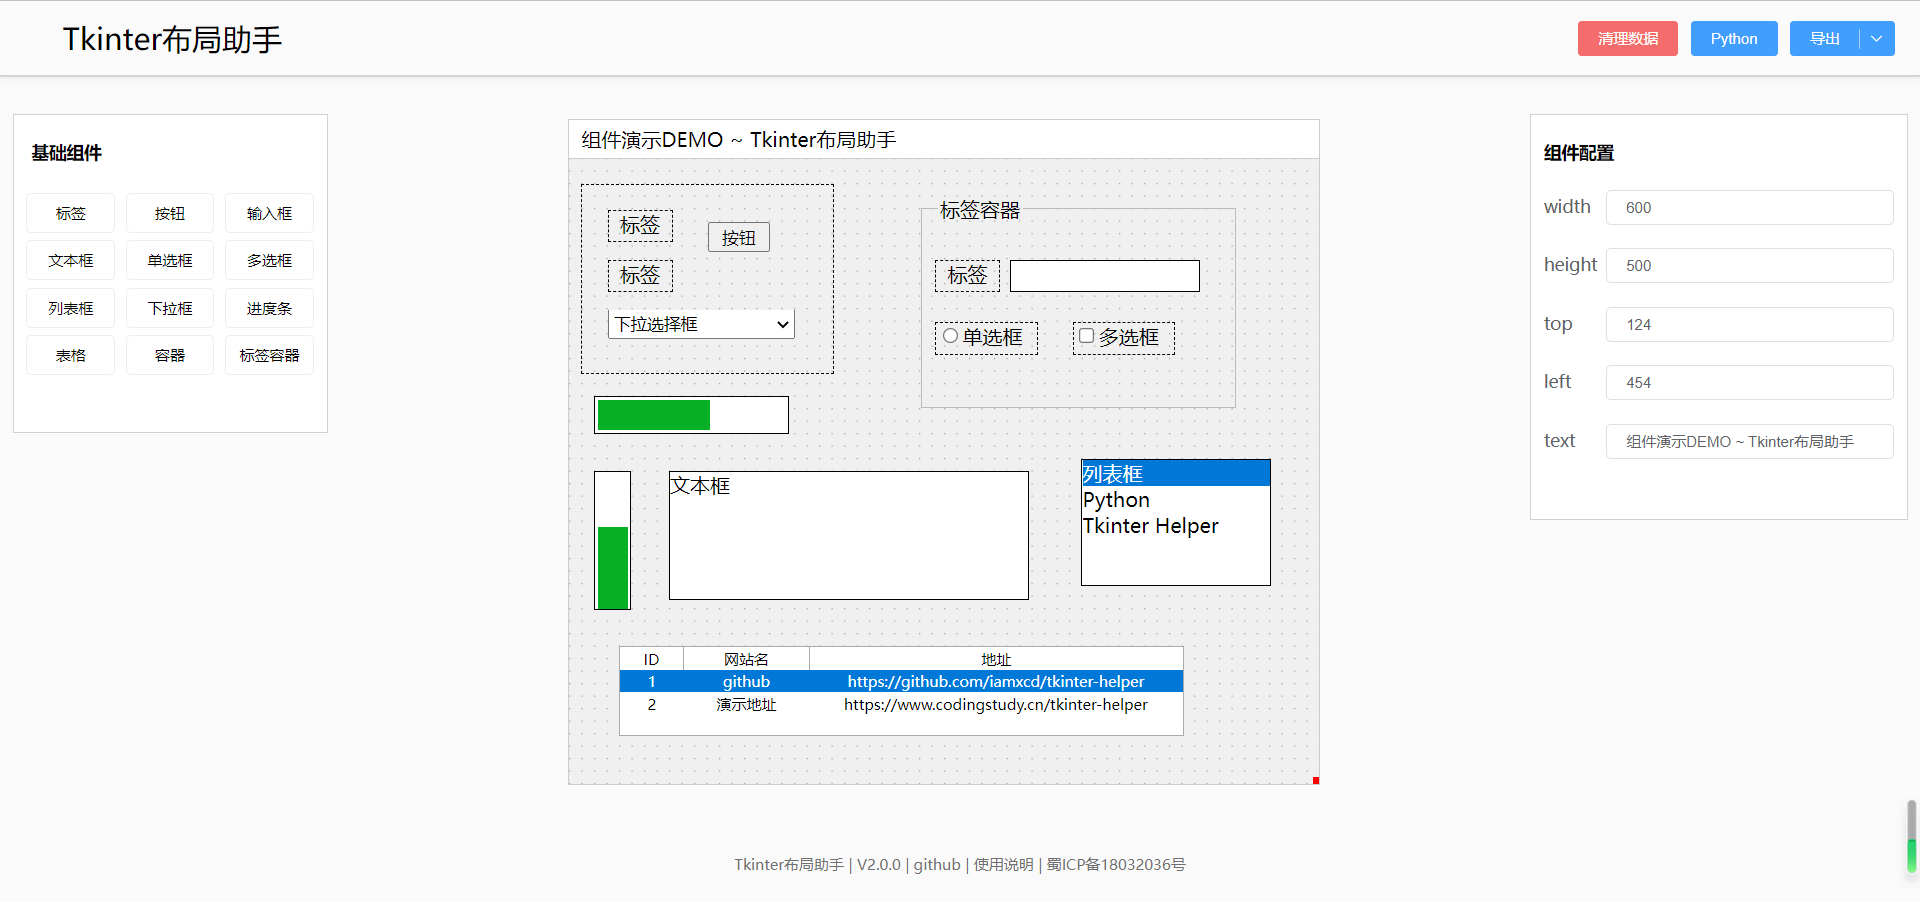
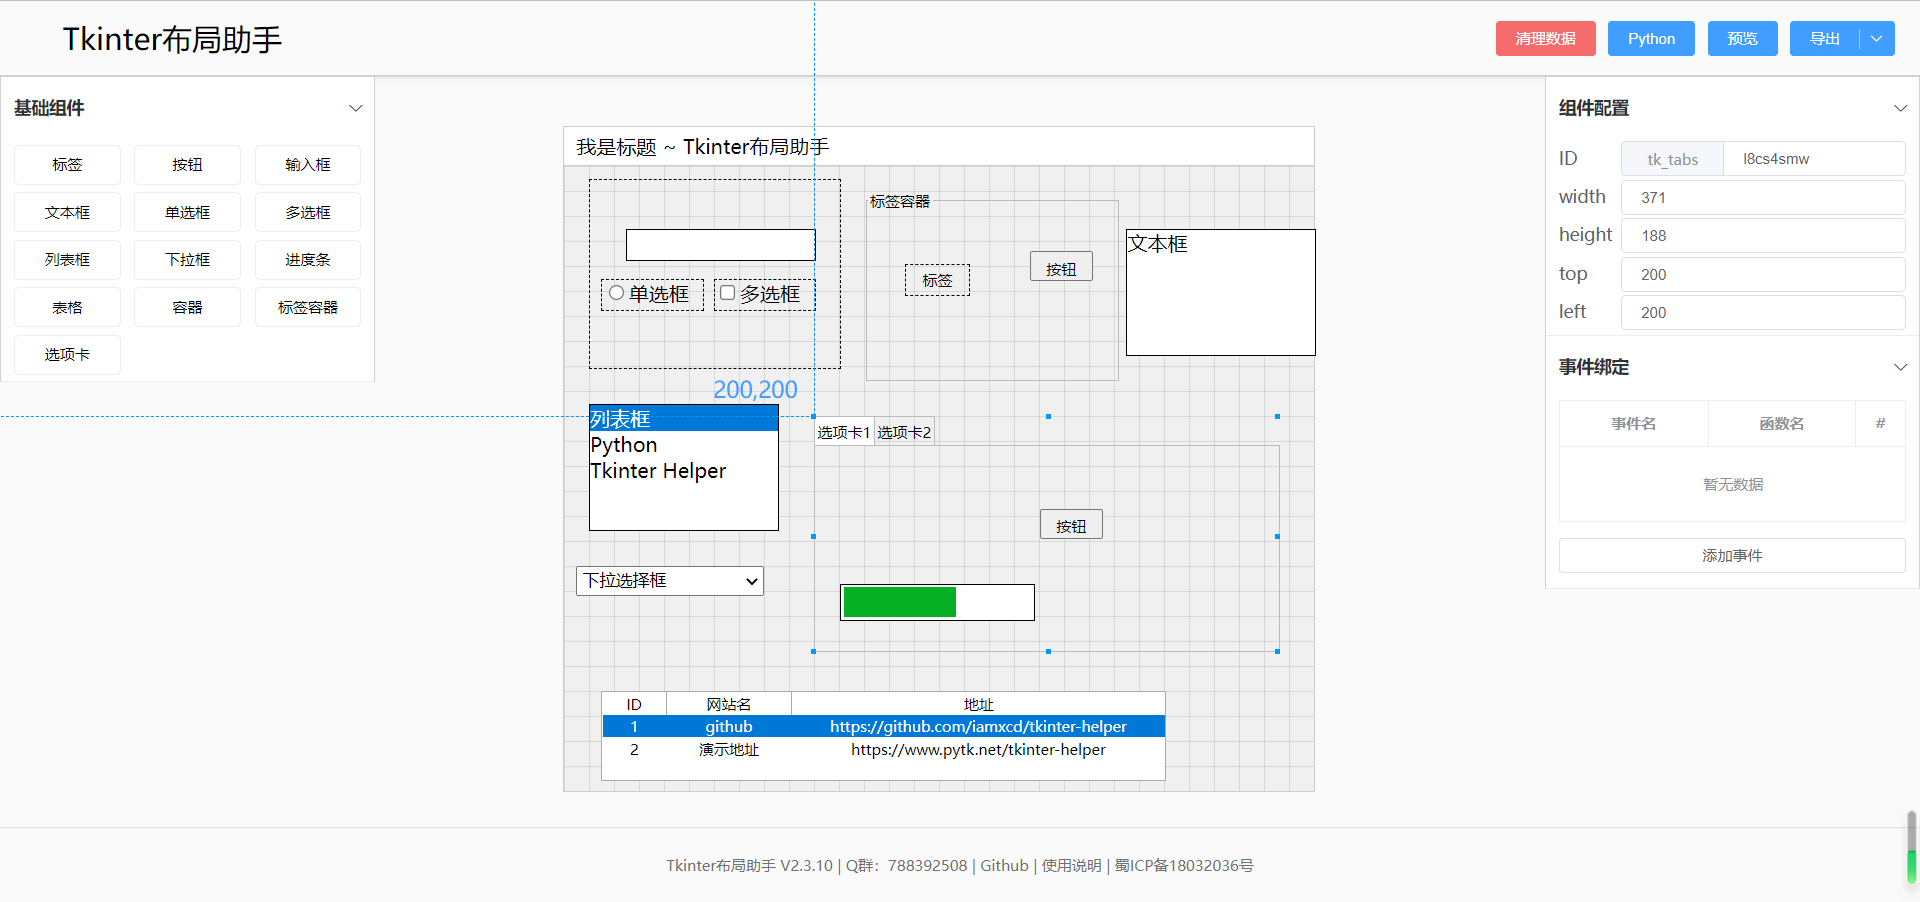
优化

diff --git a/src/components/tk_widget/tk_label_frame.vue b/src/components/tk_widget/tk_label_frame.vue
@@ -2,7 +2,10 @@
   <fieldset :style="style"
     class="tk_label_frame">
     <legend class="title">{{info.text}}</legend>
-    <slot></slot>
+    <div class="content"
+      :id="id">
+      <slot></slot>
+    </div>
   </fieldset>
 
 </template>
@@ -12,6 +15,9 @@ export default {
   props: {
     info: {
       type: Object,
+    },
+    id: {
+      type: String,
     },
   },
   computed: {
@@ -32,6 +38,13 @@ export default {
   .title {
     font-size: 12px;
     font-weight: 500;
+  }
+
+  .content {
+    margin-top: 2px;
+    width: 100%;
+    height: 100%;
+    position: absolute;
   }
 }
 </style>

diff --git a/src/components/tk_widget/tk_button.vue b/src/components/tk_widget/tk_button.vue
@@ -1,6 +1,8 @@
 <template>
-  <button>
-    {{info.text}}
+  <button class="tk_button">
+    <div :style="{'line-height':info.height+'px'}">
+      {{info.text}}
+    </div>
   </button>
 </template>
 
@@ -14,5 +16,12 @@ export default {
 };
 </script>
 
-<style>
+<style lang="scss" scoped>
+.tk_button {
+  text-align: center;
+  font-size: 12px;
+
+  white-space: nowrap;
+  overflow: hidden;
+}
 </style>

diff --git a/src/components/event-bind.vue b/src/components/event-bind.vue
@@ -152,7 +152,7 @@ export default {
     },
     getVirtuaEvents() {
       let type = this.attrsForm.type;
-      if (type == "tk_win") {
+      if (!type || type == "tk_win") {
         return [];
       }
 

diff --git a/src/config.js b/src/config.js
@@ -5,6 +5,6 @@ export const preview = {
 
 export default {
     name: 'Tkinter布局助手',
-    version: '2.3.9',
+    version: '2.3.10',
     qq_group: '788392508'
 }

diff --git a/files/demo.py b/files/demo.py
@@ -2,146 +2,183 @@
 from tkinter import *
 from tkinter.ttk import *
 
-class Win:
+
+class WinGUI(Tk):
     def __init__(self):
-        self.root = self.__win()
-        self.tk_table_l5w6b5uv = self.__tk_table_l5w6b5uv()
-        self.tk_frame_l5w6b966 = Frame_l5w6b966(self.root)
-        self.tk_label_frame_l5w6bqvd = Frame_l5w6bqvd(self.root)
-        self.tk_progressbar_l5w6c93g = self.__tk_progressbar_l5w6c93g()
-        self.tk_progressbar_l5w6cc5k = self.__tk_progressbar_l5w6cc5k()
-        self.tk_list_box_l5w6d2zq = self.__tk_list_box_l5w6d2zq()
-        self.tk_text_l5w6d9q6 = self.__tk_text_l5w6d9q6()
+        super().__init__()
+        self.__win()
+        self.tk_table_l8cs3hj1 = self.__tk_table_l8cs3hj1()
+        self.tk_frame_l8cs3mqf = Frame_l8cs3mqf(self)
+        self.tk_label_frame_l8cs3r61 = Frame_l8cs3r61(self)
+        self.tk_text_l8cs47v5 = self.__tk_text_l8cs47v5()
+        self.tk_list_box_l8cs4gan = self.__tk_list_box_l8cs4gan()
+        self.tk_tabs_l8cs4smw = Frame_l8cs4smw(self)
+        self.tk_select_box_l8cs5os2 = self.__tk_select_box_l8cs5os2()
 
     def __win(self):
-        root = Tk()
-        root.title("组件演示DEMO ~ Tkinter布局助手")
-        # 设置大小 居中展示
+        self.title("我是标题 ~ Tkinter布局助手")
+        # 设置窗口大小、居中
         width = 600
         height = 500
-        screenwidth = root.winfo_screenwidth()
-        screenheight = root.winfo_screenheight()
-        geometry = '%dx%d+%d+%d' % (width, height, (screenwidth - width) / 2, (screenheight - height) / 2)
-        root.geometry(geometry)
-        root.resizable(width=False, height=False)
-        return root
+        screenwidth = self.winfo_screenwidth()
+        screenheight = self.winfo_screenheight()
+        geometry = '%dx%d+%d+%d' % (width, height,
+                                    (screenwidth - width) / 2, (screenheight - height) / 2)
+        self.geometry(geometry)
+        self.resizable(width=False, height=False)
 
-    def show(self):
-        self.root.mainloop()
-
-    def __tk_table_l5w6b5uv(self):
+    def __tk_table_l8cs3hj1(self):
         # 表头字段 表头宽度
-        columns = {"ID":50, "网站名": 100, "地址": 300}
+        columns = {"ID": 50, "网站名": 100, "地址": 300}
         # 初始化表格 表格是基于Treeview，tkinter本身没有表格。show="headings" 为隐藏首列。
-        tk_table = Treeview(self.root, show="headings", columns=list(columns))
+        tk_table = Treeview(self, show="headings", columns=list(columns))
         for text, width in columns.items():  # 批量设置列属性
             tk_table.heading(text, text=text, anchor='center')
-            tk_table.column(text, anchor='center', width=width, stretch=False) # stretch 不自动拉伸
-        
+            tk_table.column(text, anchor='center', width=width,
+                            stretch=False)  # stretch 不自动拉伸
+
         data = [
-            [1,"github", "https://github.com/iamxcd/tkinter-helper"],
-            [2,"演示地址", "https://www.pytk.net/tkinter-helper"]
+            [1, "github", "https://github.com/iamxcd/tkinter-helper"],
+            [2, "演示地址", "https://www.pytk.net/tkinter-helper"]
         ]
-        
+
         # 导入初始数据
         for values in data:
             tk_table.insert('', END, values=values)
-        
-        tk_table.place(x=40, y=390, width=450, height=70)
+
+        tk_table.place(x=30, y=420, width=450, height=70)
         return tk_table
 
-    def __tk_progressbar_l5w6c93g(self):
-        progressbar = Progressbar(self.root, orient=HORIZONTAL)
-        progressbar.place(x=20, y=190, width=150, height=24)
-        return progressbar
+    def __tk_text_l8cs47v5(self):
+        text = Text(self)
+        text.place(x=450, y=50, width=150, height=100)
+        return text
 
-    def __tk_progressbar_l5w6cc5k(self):
-        progressbar = Progressbar(self.root, orient=VERTICAL)
-        progressbar.place(x=20, y=250, width=24, height=105)
-        return progressbar
-
-    def __tk_list_box_l5w6d2zq(self):
-        lb = Listbox(self.root)
+    def __tk_list_box_l8cs4gan(self):
+        lb = Listbox(self)
         lb.insert(END, "列表框")
         lb.insert(END, "Python")
         lb.insert(END, "Tkinter Helper")
-        lb.place(x=410, y=240, width=150, height=100)
+        lb.place(x=20, y=190, width=150, height=100)
         return lb
 
-    def __tk_text_l5w6d9q6(self):
-        text = Text(self.root)
-        text.place(x=80, y=250, width=286, height=101)
-        return text
-
-class Frame_l5w6b966:
-    def __init__(self,root):
-        self.root = self.__frame(root)
-        self.tk_label_l5w6bcqu = self.__tk_label_l5w6bcqu()
-        self.tk_label_l5w6bfit = self.__tk_label_l5w6bfit()
-        self.tk_select_box_l5w6blb1 = self.__tk_select_box_l5w6blb1()
-        self.tk_button_l5w6cwf9 = self.__tk_button_l5w6cwf9()
-
-    def __frame(self,root):
-        frame = Frame(root)
-        frame.place(x=10, y=20, width=200, height=150)
-        return frame
-
-    def __tk_label_l5w6bcqu(self):
-        label = Label(self.root,text="标签")
-        label.place(x=20, y=20, width=50, height=24)
-        return label
-
-    def __tk_label_l5w6bfit(self):
-        label = Label(self.root,text="标签")
-        label.place(x=20, y=60, width=50, height=24)
-        return label
-
-    def __tk_select_box_l5w6blb1(self):
-        cb = Combobox(self.root, state="readonly")
+    def __tk_select_box_l8cs5os2(self):
+        cb = Combobox(self, state="readonly")
         cb['values'] = ("下拉选择框", "Python", "Tkinter Helper")
-        cb.place(x=20, y=100, width=150, height=24)
+        cb.place(x=10, y=320, width=150, height=24)
         return cb
 
-    def __tk_button_l5w6cwf9(self):
-        btn = Button(self.root, text="按钮")
-        btn.place(x=100, y=30, width=50, height=24)
-        return btn
 
+class Frame_l8cs3mqf(Frame):
+    def __init__(self, parent):
+        super().__init__(parent)
+        self.__frame()
+        self.tk_input_l8cs3oe4 = self.__tk_input_l8cs3oe4()
+        self.tk_radio_button_l8cs4cw1 = self.__tk_radio_button_l8cs4cw1()
+        self.tk_check_button_l8cs4ect = self.__tk_check_button_l8cs4ect()
 
-class Frame_l5w6bqvd:
-    def __init__(self,root):
-        self.root = self.__frame(root)
-        self.tk_label_l5w6bw4m = self.__tk_label_l5w6bw4m()
-        self.tk_input_l5w6byq2 = self.__tk_input_l5w6byq2()
-        self.tk_radio_button_l5w6cmo3 = self.__tk_radio_button_l5w6cmo3()
-        self.tk_check_button_l5w6crvh = self.__tk_check_button_l5w6crvh()
+    def __frame(self):
+        self.place(x=20, y=10, width=200, height=150)
 
-    def __frame(self,root):
-        frame = LabelFrame(root,text="标签容器")
-        frame.place(x=280, y=30, width=226, height=152)
-        return frame
-
-    def __tk_label_l5w6bw4m(self):
-        label = Label(self.root,text="标签")
-        label.place(x=10, y=30, width=50, height=24)
-        return label
-
-    def __tk_input_l5w6byq2(self):
-        ipt = Entry(self.root)
-        ipt.place(x=70, y=30, width=150, height=24)
+    def __tk_input_l8cs3oe4(self):
+        ipt = Entry(self)
+        ipt.place(x=30, y=40, width=150, height=24)
         return ipt
 
-    def __tk_radio_button_l5w6cmo3(self):
-        rb = Radiobutton(self.root,text="单选框")
+    def __tk_radio_button_l8cs4cw1(self):
+        rb = Radiobutton(self, text="单选框")
         rb.place(x=10, y=80, width=80, height=24)
         return rb
 
-    def __tk_check_button_l5w6crvh(self):
-        cb = Checkbutton(self.root,text="多选框")
-        cb.place(x=120, y=80, width=80, height=24)
+    def __tk_check_button_l8cs4ect(self):
+        cb = Checkbutton(self, text="多选框")
+        cb.place(x=100, y=80, width=80, height=24)
         return cb
+
+
+class Frame_l8cs3r61(LabelFrame):
+    def __init__(self, parent):
+        super().__init__(parent)
+        self.__frame()
+        self.tk_label_l8cs3u95 = self.__tk_label_l8cs3u95()
+        self.tk_button_l8cs3w0i = self.__tk_button_l8cs3w0i()
+
+    def __frame(self):
+        self.configure(text="标签容器")
+        self.place(x=240, y=20, width=200, height=150)
+
+    def __tk_label_l8cs3u95(self):
+        label = Label(self, text="标签")
+        label.place(x=30, y=40, width=50, height=24)
+        return label
+
+    def __tk_button_l8cs3w0i(self):
+        btn = Button(self, text="按钮")
+        btn.place(x=130, y=30, width=50, height=24)
+        return btn
+
+
+class Frame_l8cs4smw(Notebook):
+    def __init__(self, parent):
+        super().__init__(parent)
+        self.__frame()
+
+    def __frame(self):
+
+        self.tk_tabs_l8cs4smw_0 = Frame_l8cs4smw_0(self)
+        self.add(self.tk_tabs_l8cs4smw_0, text="选项卡1")
+
+        self.tk_tabs_l8cs4smw_1 = Frame_l8cs4smw_1(self)
+        self.add(self.tk_tabs_l8cs4smw_1, text="选项卡2")
+
+        self.place(x=200, y=200, width=371, height=188)
+
+
+class Frame_l8cs4smw_0(Frame):
+    def __init__(self, parent):
+        super().__init__(parent)
+        self.__frame()
+        self.tk_progressbar_l8cs56bp = self.__tk_progressbar_l8cs56bp()
+        self.tk_button_l8cs6lpz = self.__tk_button_l8cs6lpz()
+
+    def __frame(self):
+        self.place(x=200, y=200, width=371, height=188)
+
+    def __tk_progressbar_l8cs56bp(self):
+        progressbar = Progressbar(self, orient=HORIZONTAL)
+        progressbar.place(x=20, y=110, width=150, height=24)
+        return progressbar
+
+    def __tk_button_l8cs6lpz(self):
+        btn = Button(self, text="按钮")
+        btn.place(x=180, y=50, width=50, height=24)
+        return btn
+
+
+class Frame_l8cs4smw_1(Frame):
+    def __init__(self, parent):
+        super().__init__(parent)
+        self.__frame()
+        self.tk_button_l8cs5hjl = self.__tk_button_l8cs5hjl()
+
+    def __frame(self):
+        self.place(x=200, y=200, width=371, height=188)
+
+    def __tk_button_l8cs5hjl(self):
+        btn = Button(self, text="按钮")
+        btn.place(x=90, y=90, width=50, height=24)
+        return btn
+
+
+class Win(WinGUI):
+    def __init__(self):
+        super().__init__()
+        self.__event_bind()
+
+    def __event_bind(self):
+        pass
+
 
 if __name__ == "__main__":
     win = Win()
-    # TODO 绑定点击事件或其他逻辑处理
-    win.show()
+    win.mainloop()
